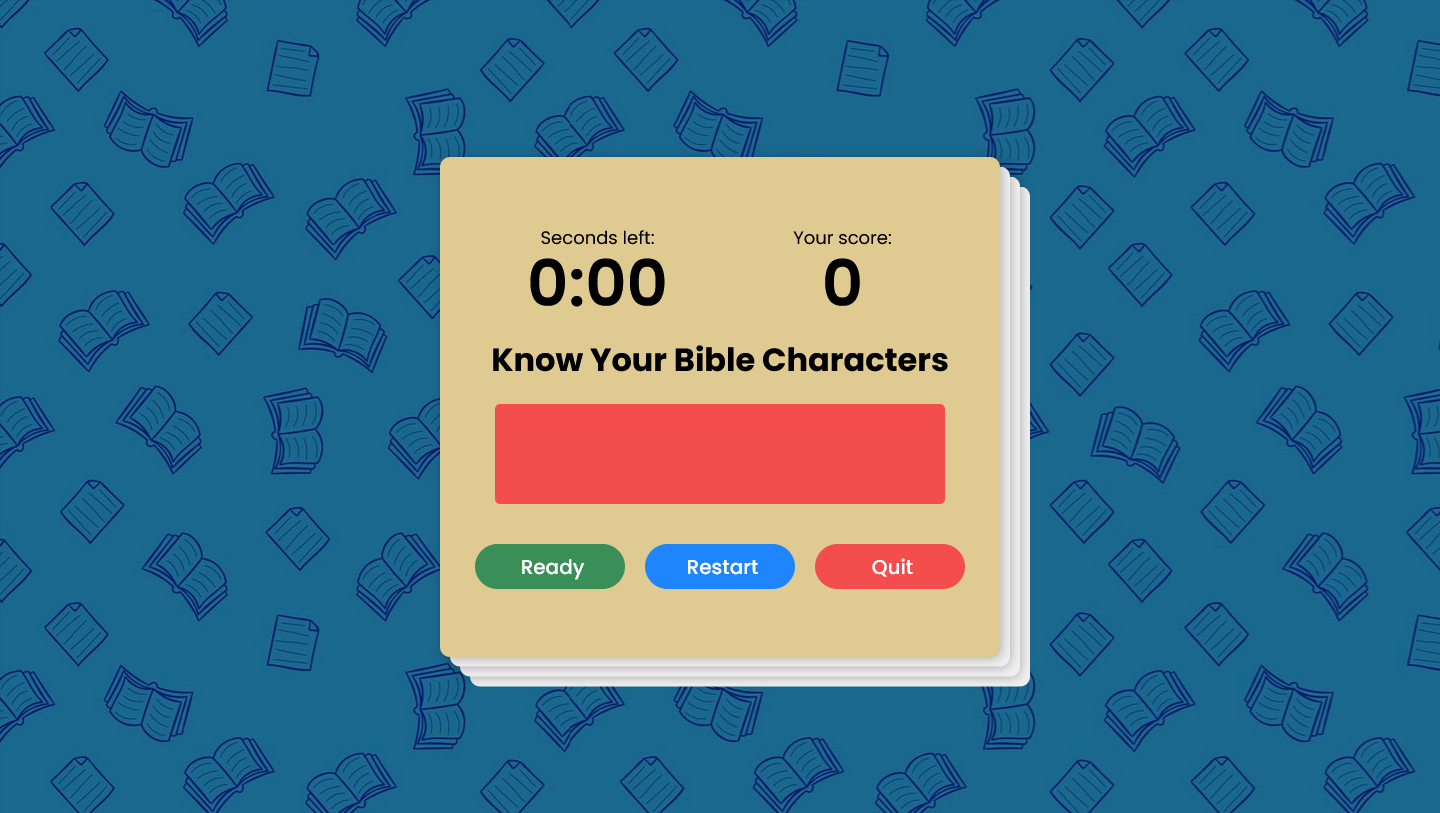
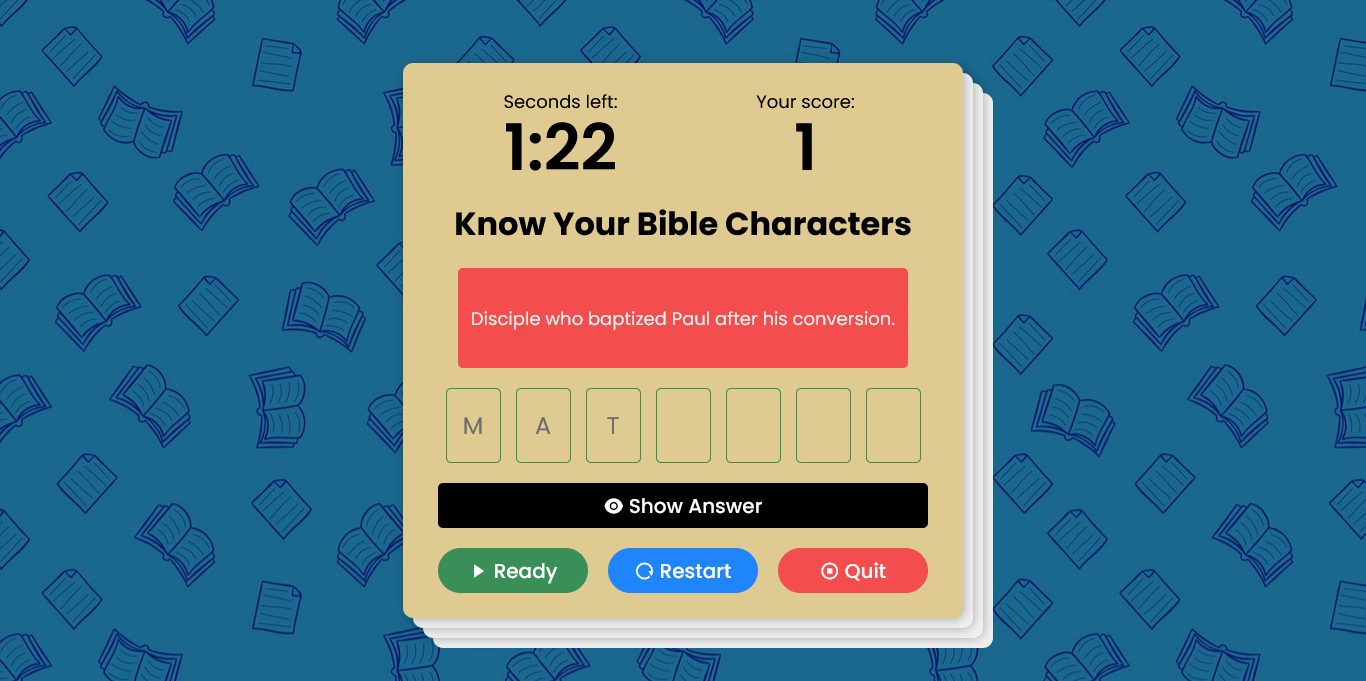
updating screenshots and increasing timer

diff --git a/script.js b/script.js
@@ -101,7 +101,7 @@ const questions = [
 
 let originalQuestions = [...questions]; // Make a copy of the original questions
 let answerVal = "";
-let timeRemaining = 120;
+let timeRemaining = 600;
 let timer = false;
 let characterName;
 let fields = "";
@@ -190,7 +190,10 @@ function setQuestion() {
 
 function startQuiz() {
     score = 0;
-    timeRemaining = 120;
+    timeRemaining = 600;
+
+    hintContainer.style.background = "";
+
     document.getElementById('score').textContent = score;
     setQuestion();
 }
@@ -238,13 +241,14 @@ function restartQuiz() {
 
     // Reset score and time
     score = 0;
-    timeRemaining = 120;
+    timeRemaining = 600;
 
     document.getElementById('score').textContent = score;
-    document.getElementById('timeLeft').textContent = '2:00'; // Reset timer display
+    // document.getElementById('timeLeft').textContent = '10:00'; // Reset timer display
 
     inputFields.innerHTML = "";
-    hintField.textContent = "Quiz restarted!";
+    // hintField.textContent = "Quiz restarted!";
+    window.alert("Quiz restarted")
     hintContainer.style.background = "";
 
     // Start with a new question

diff --git a/README.md b/README.md
@@ -24,3 +24,5 @@ https://charlesarmah1002.github.io/bible-trivia
 ## Screenshots
 
 ![Bible Character Trivia Screenshot](https://charlesarmah1002.github.io/bible-trivia/bible-trivia-screenshot.png)
+
+![Bible Character Trivia Screenshot Mobile](https://charlesarmah1002.github.io/bible-trivia/bible-trivia-screenshot%202.png)
